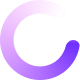
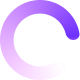
Add Loading animation

diff --git a/src/components/Generating.jsx b/src/components/Generating.jsx
@@ -7,7 +7,7 @@ const Generating = ({ className }) => {
         className || ""
       } text-base`}
     >
-      <img className="w-5 h-5 mr-4" src={loading} alt="Loading" />
+      <img className="w-5 h-5 mr-4 animate-spin scale-x-1" src={loading} alt="Loading " />
       AI is generating
     </div>
   );
